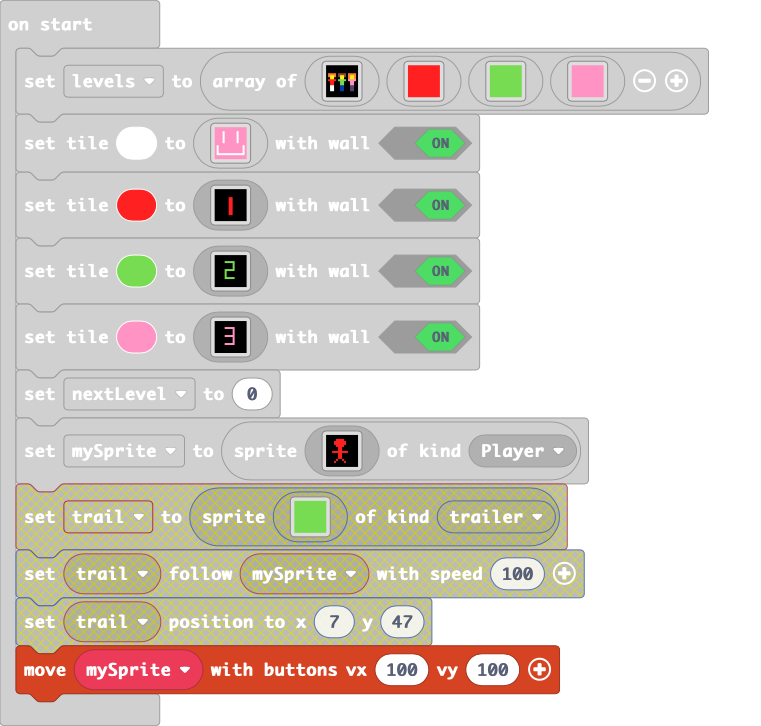
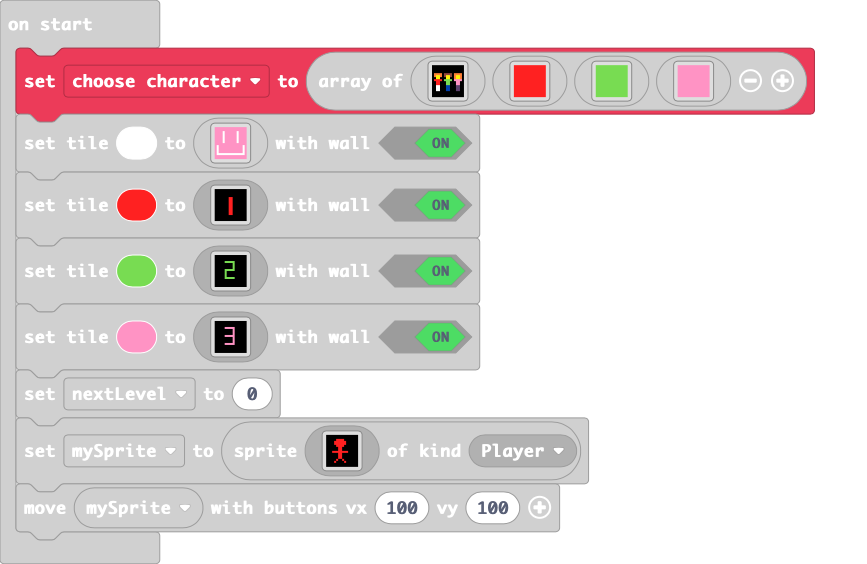
Update main.blocks, main.ts

diff --git a/main.ts b/main.ts
@@ -10,9 +10,9 @@ scene.onHitTile(SpriteKind.Player, 3, function (sprite) {
 scene.onHitTile(SpriteKind.Player, 2, function (sprite) {
     scene.setTileMap(levels[nextLevel])
 })
-let nextLevel = 0
 let levels: Image[] = []
-levels = [img`
+let nextLevel = 0
+let choose_character = [img`
     f f f f f f f f f f f f f f f f 
     f f f f f f f f f f f f f f f f 
     f f f f f f f f f f f f f f f f 
